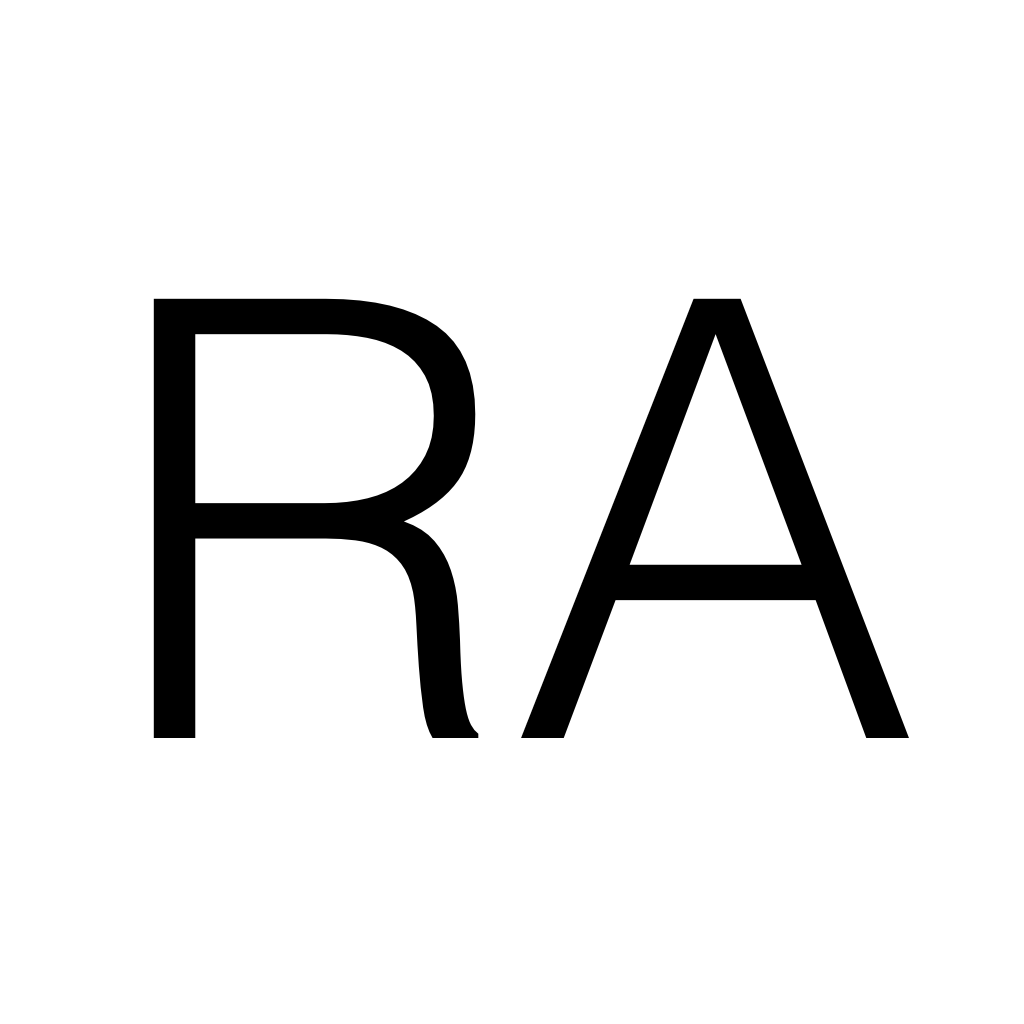
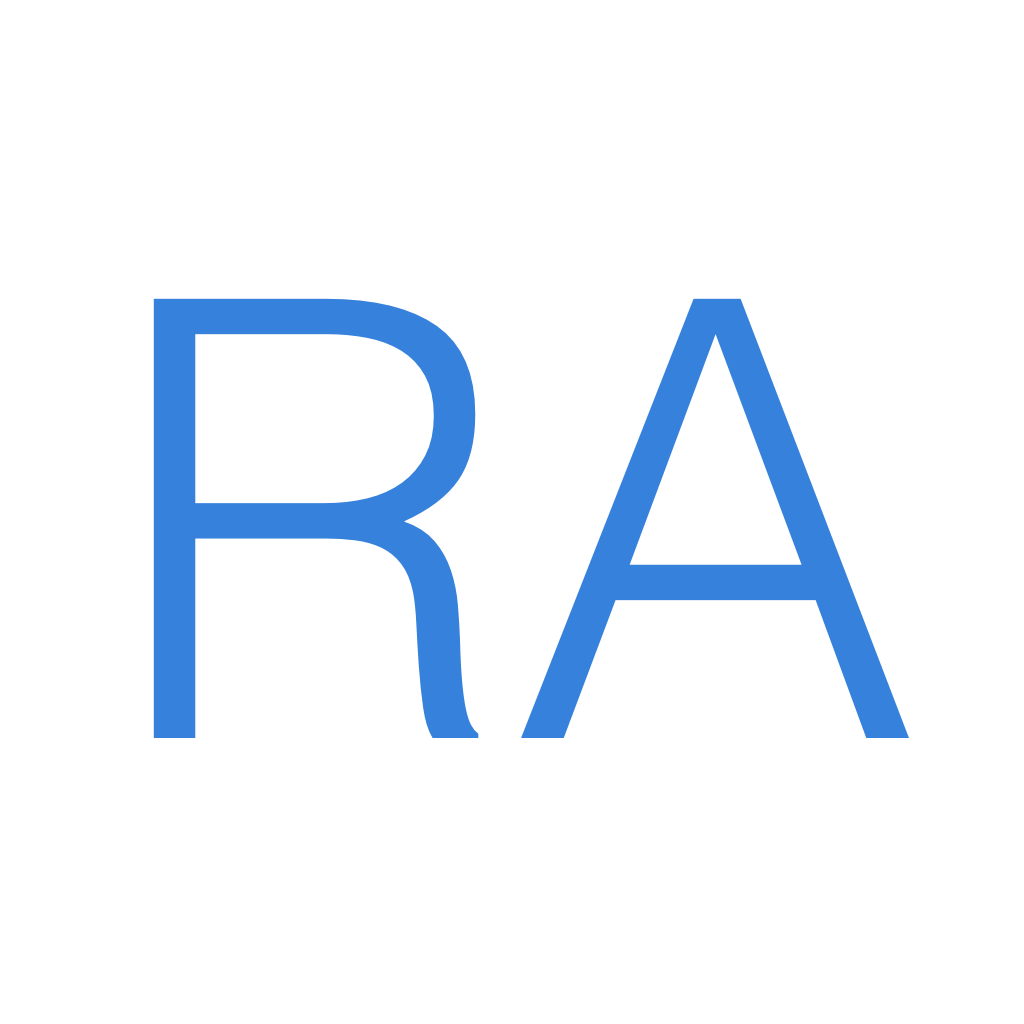
Basic Shuffle Logic - "S" switches to "blue S" when shuffle is on; black when off - basic shuffle logic, randomizes p between 0 and number of songs
- updated Repeat graphics; "RS" and "RA" now blue when enabled

Changed region(s): [[0.125, 0.2812, 0.4688, 0.7188], [0.5, 0.2812, 0.9062, 0.7188]]

diff --git a/Vinyl/ViewController.swift b/Vinyl/ViewController.swift
@@ -28,6 +28,7 @@ class ViewController: NSViewController, AVAudioPlayerDelegate
     var firstPlay = false
     var repeatSingle = false
     var repeatAll = false
+    var shuffle = false
     var p = 0
     
     
@@ -293,7 +294,16 @@ class ViewController: NSViewController, AVAudioPlayerDelegate
     
     
     @IBAction func clickShuffle(_ sender:NSToolbarItem) {
-        print("Shuffle!")
+        let defaultNC = NotificationCenter.default()
+        
+        if sender.image?.name() == "Shuffle-Off" {
+            defaultNC.post(name:Notification.Name(rawValue:"DisplayShuffleOnImage"), object:nil)
+            shuffle = true
+        }
+        else {  // Must be "Shuffle-On"
+            defaultNC.post(name:Notification.Name(rawValue:"DisplayShuffleOffImage"), object:nil)
+            shuffle = false
+        }
     }
     
     
@@ -339,13 +349,20 @@ class ViewController: NSViewController, AVAudioPlayerDelegate
                 cueSong(songs[p].path, play:true)
                 songsTable.selectRowIndexes(IndexSet(integer:p), byExtendingSelection:false)
             }
-            else {
-                if p != songs.count-1 {
-                    p += 1
+            else {  // Repeat is disabled
+                if shuffle == true {
+                    p = Int(arc4random_uniform(UInt32(songs.count)) + 0)
                     cueSong(songs[p].path, play:true)
                     songsTable.selectRowIndexes(IndexSet(integer:p), byExtendingSelection:false)
                 }
-                else { NotificationCenter.default().post(name:Notification.Name(rawValue:"DisplayPlayImage"), object:nil) }
+                else {
+                    if p != songs.count-1 {
+                        p += 1
+                        cueSong(songs[p].path, play:true)
+                        songsTable.selectRowIndexes(IndexSet(integer:p), byExtendingSelection:false)
+                    }
+                    else { NotificationCenter.default().post(name:Notification.Name(rawValue:"DisplayPlayImage"), object:nil) }
+                }
             }
         }
     }

diff --git a/Vinyl/MyNSToolbar.swift b/Vinyl/MyNSToolbar.swift
@@ -33,6 +33,8 @@ class MyNSToolbar: NSToolbar
         defaultNC.addObserver(self, selector:#selector(MyNSToolbar.displayRepeatImage(_:)), name:"DisplayRepeatImage", object: nil)
         defaultNC.addObserver(self, selector:#selector(MyNSToolbar.displayRepeatSingleImage(_:)), name:"DisplayRepeatSingleImage", object: nil)
         defaultNC.addObserver(self, selector:#selector(MyNSToolbar.displayRepeatAllImage(_:)), name:"DisplayRepeatAllImage", object: nil)
+        defaultNC.addObserver(self, selector:#selector(MyNSToolbar.displayShuffleOnImage(_:)), name:"DisplayShuffleOnImage", object: nil)
+        defaultNC.addObserver(self, selector:#selector(MyNSToolbar.displayShuffleOffImage(_:)), name:"DisplayShuffleOffImage", object: nil)
     }
     
     
@@ -66,5 +68,15 @@ class MyNSToolbar: NSToolbar
     
     func displayRepeatAllImage(_ aNotification:Notification) {
         repeater.image = NSImage(named:"Repeat-All")
+    }
+    
+    
+    func displayShuffleOnImage(_ aNotification:Notification) {
+        shuffler.image = NSImage(named:"Shuffle-On")
+    }
+    
+    
+    func displayShuffleOffImage(_ aNotification:Notification) {
+        shuffler.image = NSImage(named:"Shuffle-Off")
     }
 }
